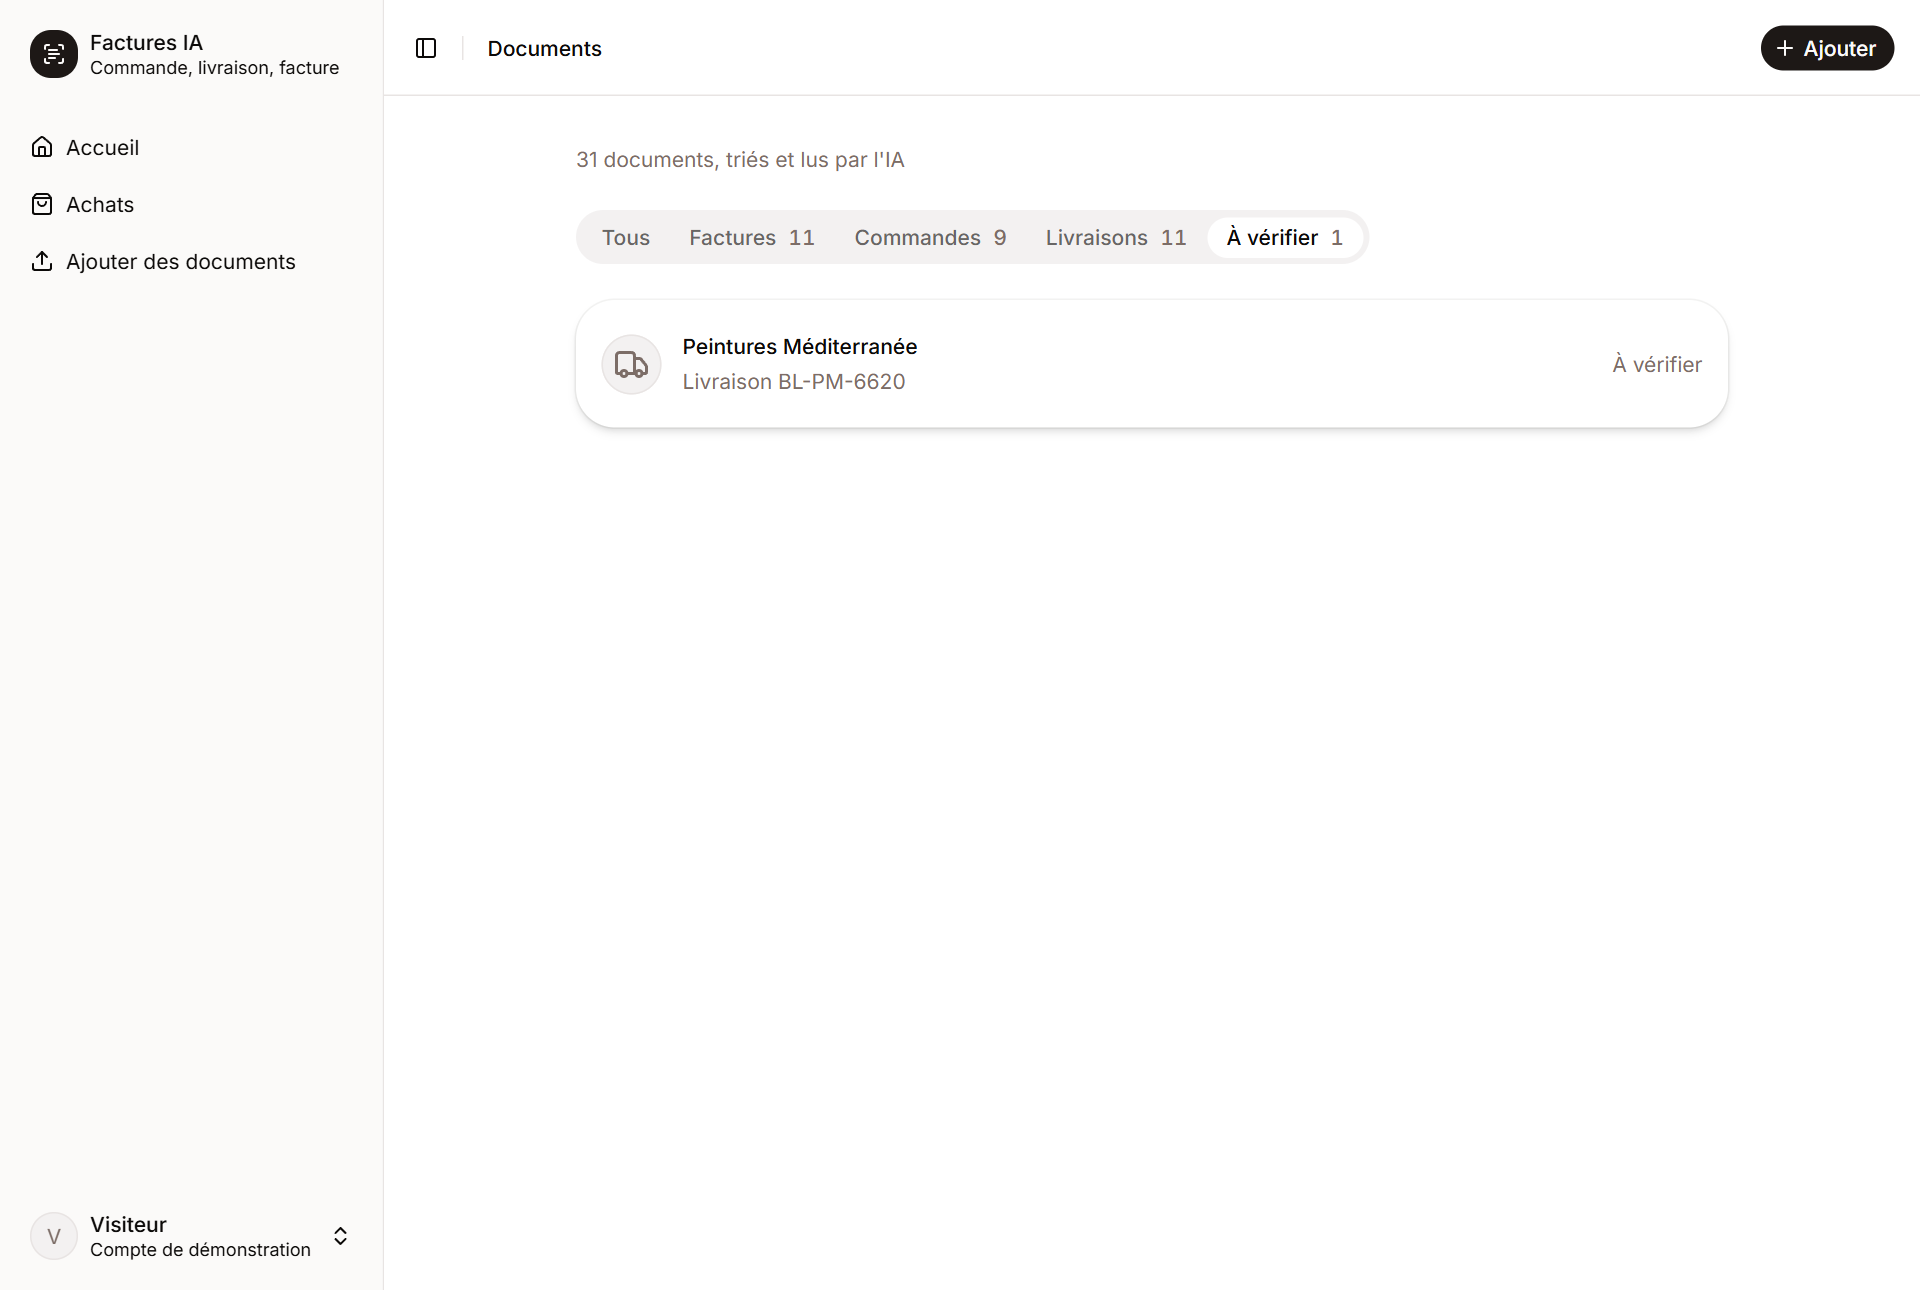
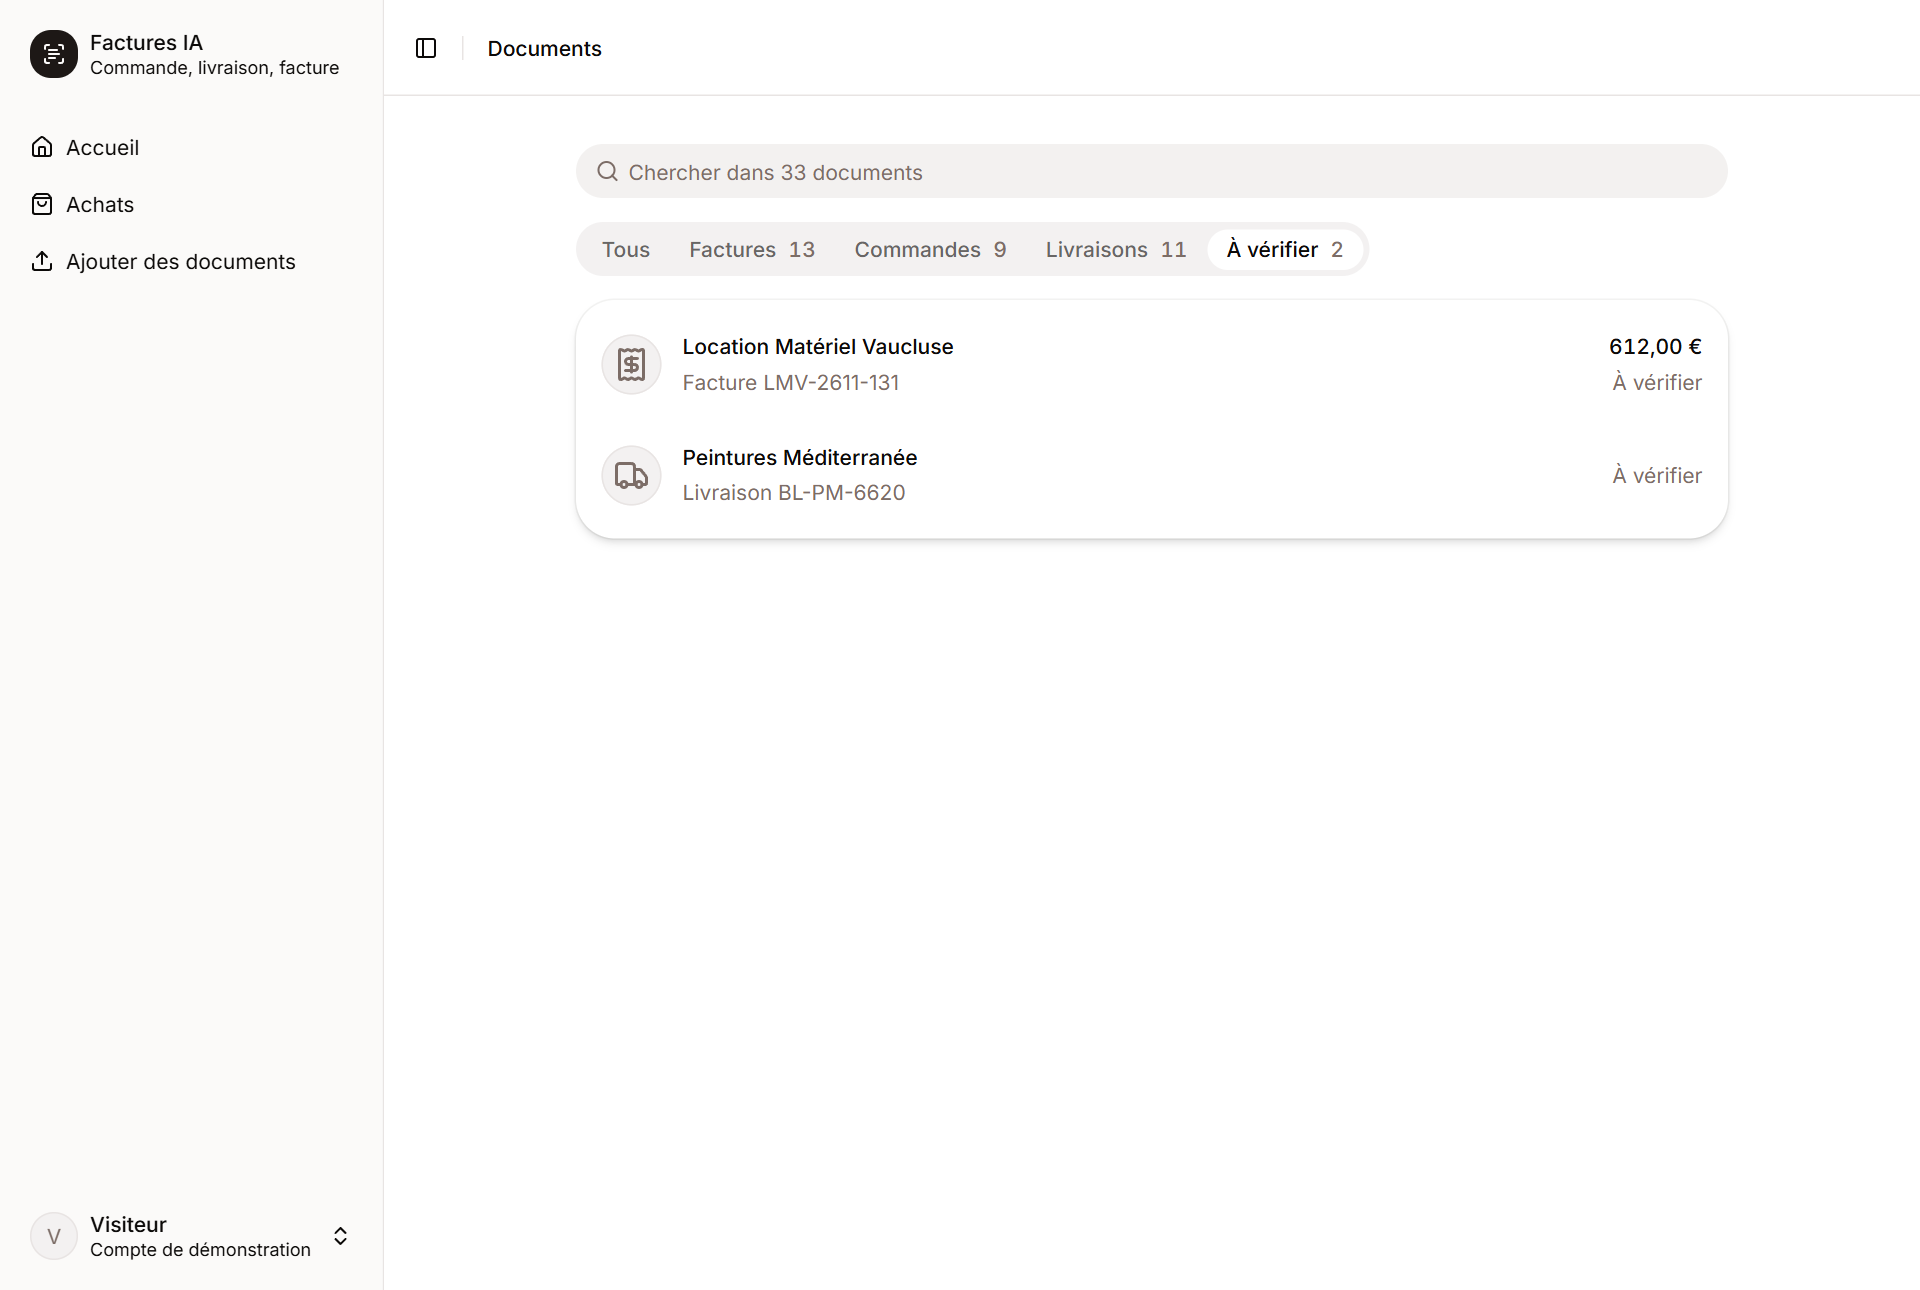
README et captures : IBAN, recherche, écrans compacts

diff --git a/frontend/src/components/Purchases/PurchaseSheet.tsx b/frontend/src/components/Purchases/PurchaseSheet.tsx
@@ -54,6 +54,7 @@ import {
   formatDate,
   formatQuantity,
   groupIban,
+  KIND,
   KIND_LONG,
   PURCHASE_STATUS,
 } from "@/lib/documents"
@@ -379,7 +380,7 @@ function Documents({ documents }: { documents: DocumentRef[] }) {
                   </ItemMedia>
                   <ItemContent className="min-w-0">
                     <ItemTitle className="block w-full truncate font-normal">
-                      {KIND_LONG[document.kind]} {document.number ?? ""}
+                      {KIND[document.kind]} {document.number ?? ""}
                     </ItemTitle>
                   </ItemContent>
                   <ItemActions className="text-sm text-muted-foreground">

diff --git a/README.md b/README.md
@@ -29,7 +29,7 @@ Le cas d'usage visé : une PME du bâtiment ou un grossiste qui reçoit des cent
 
 https://factures-ia.vercel.app
 
-Le bouton **Essayer la démo** ouvre, sans inscription, un compte rempli avec les 31 documents de [`backend/app/demo/purchases`](backend/app/demo/purchases), déjà lus : 11 achats avec chacun un piège. Chaque visiteur a son propre compte de démo, effacé au bout de 24 heures. Les documents y sont chargés tels que Gemini les lit (31 sur 31, mesuré plus bas), puis passent les vrais contrôles et le vrai rapprochement : le verdict affiché sort du même code qu'un vrai dépôt.
+Le bouton **Essayer la démo** ouvre, sans inscription, un compte rempli avec les 33 documents de [`backend/app/demo/purchases`](backend/app/demo/purchases), déjà lus : 13 achats avec chacun un piège. Chaque visiteur a son propre compte de démo, effacé au bout de 24 heures. Les documents y sont chargés tels que Gemini les lit (33 sur 33, mesuré plus bas), puis passent les vrais contrôles et le vrai rapprochement : le verdict affiché sort du même code qu'un vrai dépôt.
 
 Pour voir l'IA lire, créez un compte et déposez ces PDF en vrac, ou prenez un bon de livraison en photo avec votre téléphone : les photos JPEG, PNG et WebP sont réduites dans le navigateur, puis converties en PDF par le serveur. Les factures de [`backend/tests/fixtures/invoices`](backend/tests/fixtures/invoices) passent toutes ; pour voir les contrôles en action, prenez un avoir ou une facture américaine dans les jeux de données cités plus bas.
 
@@ -59,9 +59,9 @@ flowchart LR
 ```
 
 1. Le fichier est contrôlé (signature `%PDF` ou photo, 10 Mo au plus ; une photo devient un PDF d'une page) puis stocké en base, sans type. Le traitement part en arrière-plan et l'interface se met à jour toute seule.
-1. Une **facture électronique** (Factur-X, ZUGFeRD) porte ses chiffres dans un fichier XML joint au PDF. Depuis le 1er septembre 2026, toutes les entreprises françaises doivent pouvoir en recevoir. Ce XML est lu tel quel, en quelques millisecondes, sans OCR ni IA : fournisseur, numéro, dates, échéance, totaux, numéro de commande et lignes sont exacts. Si le XML n'a pas de lignes (profils MINIMUM et BASIC WL), seule la lecture des lignes est confiée à l'IA. Testé sur les 20 exemples officiels Factur-X et ZUGFeRD cités plus bas.
+1. Une **facture électronique** (Factur-X, ZUGFeRD) porte ses chiffres dans un fichier XML joint au PDF. Depuis le 1er septembre 2026, toutes les entreprises françaises doivent pouvoir en recevoir. Ce XML est lu tel quel, en quelques millisecondes, sans OCR ni IA : fournisseur, numéro, dates, échéance, totaux, IBAN, e-mail du fournisseur, numéro de commande et lignes sont exacts. Si le XML n'a pas de lignes (profils MINIMUM et BASIC WL), seule la lecture des lignes est confiée à l'IA. Testé sur les 20 exemples officiels Factur-X et ZUGFeRD cités plus bas.
 2. [Docling](https://github.com/docling-project/docling) extrait le texte et les tableaux des 5 premières pages.
-3. Gemini reçoit le PDF complet et le texte de Docling. Il voit les logos et la mise en page, le texte l'aide à lire les chiffres. En un seul appel, il renvoie le type (facture, avoir, bon de commande, bon de livraison), le fournisseur, le numéro, la date, le numéro de commande de l'acheteur, les totaux, la mention d'exonération de TVA, la date d'échéance et les conditions de paiement recopiées telles quelles (« 45 jours fin de mois »), et chaque ligne d'article (référence, désignation, quantité, prix). La date d'échéance n'est jamais calculée par l'IA : si elle n'est pas imprimée, le code la déduit des conditions ; s'il n'y a rien, l'appli compte les 30 jours du délai légal (code de commerce, art. L441-10) et le dit.
+3. Gemini reçoit le PDF complet et le texte de Docling. Il voit les logos et la mise en page, le texte l'aide à lire les chiffres. En un seul appel, il renvoie le type (facture, avoir, bon de commande, bon de livraison), le fournisseur, le numéro, la date, le numéro de commande de l'acheteur, les totaux, la mention d'exonération de TVA, la date d'échéance et les conditions de paiement recopiées telles quelles (« 45 jours fin de mois »), l'IBAN et l'e-mail du fournisseur, et chaque ligne d'article (référence, désignation, quantité, prix). La date d'échéance n'est jamais calculée par l'IA : si elle n'est pas imprimée, le code la déduit des conditions ; s'il n'y a rien, l'appli compte les 30 jours du délai légal (code de commerce, art. L441-10) et le dit.
 4. Les règles de [`checks.py`](backend/app/services/checks.py) décident du statut, avec des règles propres à chaque type. Elles ne font pas appel à l'IA et sont testées seules.
 5. [`reconciliation.py`](backend/app/services/reconciliation.py) regroupe les documents par numéro de commande et les compare ligne par ligne.
 6. Un document corrigé à la main (type, champs, numéro de commande, lignes) repasse les contrôles, et son achat est recalculé. On peut aussi relancer la lecture par l'IA.
@@ -73,7 +73,7 @@ L'accueil donne en gros le **reste à payer, TTC** (ce qui sort vraiment du comp
 ## Interface
 
 - [shadcn/ui](https://ui.shadcn.com) avec le preset `radix-luma`, couleur de base taupe, sur Tailwind CSS 4. Les composants sont ceux du registre, sans retouche : `Sidebar` pour la navigation sur ordinateur, `Item` pour les listes, `Tabs` pour les filtres, `Card`, `Badge`, `Alert`, `Table`, `Empty`, `Field` et `InputGroup` pour les formulaires, `AlertDialog` pour les suppressions, `Dialog` sur ordinateur et `Drawer` sur téléphone pour les détails.
-- Sur téléphone, une présentation d'appli bancaire : le montant à payer en grand, des boutons ronds (Ajouter, Photo qui ouvre l'appareil photo, Litiges), des listes regroupées dans un seul bloc avec le montant TTC et l'échéance à droite, trois onglets en bas de l'écran (Accueil, Achats, Compte), et les détails qui montent du bas. La liste brute des documents s'ouvre depuis les achats, là où elle sert.
+- Sur téléphone, une présentation d'appli bancaire : le montant à payer en grand, des boutons ronds (Ajouter, Photo qui ouvre l'appareil photo, Litiges), des listes regroupées dans un seul bloc avec le montant TTC et l'échéance à droite, trois onglets en bas de l'écran (Accueil, Achats, Compte), et les détails qui montent du bas. La liste brute des documents s'ouvre depuis les achats, là où elle sert. Les détails tiennent en peu de place : le montant et les boutons en trois lignes, les articles en tableau (une ligne par article, commandé, livré et facturé côte à côte, le chiffre en cause en rouge). Achats et documents ont une recherche ; chercher un fournisseur donne aussi ce qu'on lui doit.
 - Aucun écran qui clignote : chaque page charge ses données avant de s'afficher (préchargées dès que le doigt ou la souris touche le lien), les onglets filtrent dans le navigateur sans recharger, et le thème clair ou sombre est appliqué avant le premier affichage.
 
 ## Vérifications
@@ -153,13 +153,15 @@ Le rapprochement n'est pas stocké : il est recalculé à chaque affichage par u
 
 Dans le détail d'un litige, deux boutons :
 
-- **Écrire** prépare le mail au fournisseur : la facture et la commande concernées, la liste des écarts, le montant facturé en trop, et la demande d'un avoir ou d'une facture corrigée. Le texte est écrit à partir de la comparaison, sans l'IA : chaque chiffre est un chiffre vérifié. On peut le modifier, le copier ou l'ouvrir dans sa messagerie.
+- **Écrire au fournisseur** prépare le mail, adressé à l'e-mail lu sur ses documents : la facture et la commande concernées, la liste des écarts, le montant facturé en trop, et la demande d'un avoir ou d'une facture corrigée. Le texte est écrit à partir de la comparaison, sans l'IA : chaque chiffre est un chiffre vérifié. On peut le modifier, le copier ou l'ouvrir dans sa messagerie.
 - **Réglé** range l'achat dans les achats à payer, une fois l'accord trouvé. Les écarts restent affichés pour mémoire, et **Rouvrir** annule. L'avoir, une fois déposé, est déduit du montant à payer.
 
 Le règlement ne vaut que pour les écarts qu'il y avait à ce moment-là. Si un nouveau document en fait apparaître d'autres, le litige se rouvre tout seul.
 
 ### Payer, et envoyer au comptable
 
+- Un achat à payer montre l'**IBAN** de la facture, avec un bouton **Copier l'IBAN** pour le virement. Une facture en retard de paiement rappelle que le fournisseur peut réclamer 40 € d'indemnité (code de commerce, art. L441-10).
+- **Changement de RIB** : c'est l'arnaque qui vise le plus les PME, un faux fournisseur qui « change de banque ». L'IBAN est vérifié (clé ISO 13616) puis comparé à celui de la facture précédente du même fournisseur. S'il a changé, l'achat est bloqué en attente, avec une alerte rouge en haut et sur l'accueil : appeler le fournisseur à un numéro déjà connu, pas celui de la facture. Le bouton **J'ai appelé, l'IBAN est bon** débloque la facture.
 - **Payé** range l'achat dans les payés, avec la date ; **Pas payé** annule. Le reste à payer de l'accueil baisse d'autant. Pour un avoir seul, le bouton devient **Déduit**.
 - Dans **Compte, Mes données**, **Pour le comptable** télécharge un zip : un tableau des factures et avoirs (date, fournisseur, numéro, HT, TVA, TTC, échéance, date de paiement) qui s'ouvre tel quel dans Excel en français, et les PDF nommés par date, fournisseur et numéro. Tout, ou un mois choisi.
 
@@ -191,18 +193,20 @@ Le projet a aussi été passé sur 42 factures publiques :
 
 (*) La facture AWS porte la phrase « This is not a VAT invoice ». Selon les passages, Gemini la recopie comme mention d'exonération ou non : la facture est alors validée ou signalée.
 
-Pour le rapprochement, [`scripts/generate_purchases.py`](backend/scripts/generate_purchases.py) fabrique 11 achats de grossistes, d'entreprises du bâtiment et d'un opérateur télécom, soit 31 PDF, chacun avec un piège connu : quantité facturée non livrée, prix augmenté, article ajouté, livraison en deux fois, désignations réécrites, bon de livraison sans numéro de commande, facture sans commande, livraison en retard, express commandé mais livré en standard, facture d'abonnement seule. Les factures portent des conditions de paiement variées : « 45 jours », « 30 jours fin de mois », « à réception », une date imprimée, ou rien. [`scripts/evaluate_purchases.py`](backend/scripts/evaluate_purchases.py) les passe dans Docling et Gemini :
+Pour le rapprochement, [`scripts/generate_purchases.py`](backend/scripts/generate_purchases.py) fabrique 13 achats de grossistes, d'entreprises du bâtiment, d'un opérateur télécom et d'un loueur de matériel, soit 33 PDF, chacun avec un piège connu : quantité facturée non livrée, prix augmenté, article ajouté, livraison en deux fois, désignations réécrites, bon de livraison sans numéro de commande, facture sans commande, livraison en retard, express commandé mais livré en standard, facture d'abonnement seule, IBAN changé d'un mois sur l'autre. Les IBAN sont fictifs (code banque 99999, qu'aucune banque n'utilise). Les factures portent des conditions de paiement variées : « 45 jours », « 30 jours fin de mois », « à réception », une date imprimée, ou rien. [`scripts/evaluate_purchases.py`](backend/scripts/evaluate_purchases.py) les passe dans Docling et Gemini :
 
 | | Résultat |
 |---|---|
-| Type de document reconnu | 31 / 31 |
-| Numéro et numéro de commande | 31 / 31 |
-| Lignes lues (nombre, quantités, prix) | 31 / 31 |
+| Type de document reconnu | 33 / 33 |
+| Numéro et numéro de commande | 33 / 33 |
+| Lignes lues (nombre, quantités, prix) | 33 / 33 |
 | Mode et date de livraison (commandes et bons de livraison) | 20 / 20 |
-| Échéance (factures) | 11 / 11 |
-| Verdict de l'achat | 11 / 11 |
+| Échéance, IBAN et e-mail du fournisseur (factures) | 13 / 13 chacun |
+| Verdict de l'achat | 13 / 13 |
 
 Ces PDF sont propres et générés : ce score montre que la chaîne marche de bout en bout, pas qu'elle résiste à un bon de livraison scanné et froissé. C'est le prochain jeu de test à constituer.
+
+Une mesure a aussi servi à corriger la consigne : ajouter des champs l'a rendue instable sur « Livraison dépôt », rangé une fois sur deux en retrait. Préciser que le mot livraison veut dire que le fournisseur apporte a ramené le résultat à 4 sur 4 à chaque passage.
 
 Deux idées ont été essayées puis retirées, parce que les mesures ne les justifiaient pas :
 
@@ -235,11 +239,12 @@ backend/app/
   services/payment_terms.py      échéance tirée des conditions de paiement
   services/supplier_email.py     mail de litige ou de relance, sans IA
   services/export.py             zip pour le comptable (tableau et PDF)
+  services/iban.py               IBAN vérifié, changement de RIB repéré
   services/processing.py         enchaîne lecture, extraction et contrôles
 backend/scripts/
   create_admin.py          crée un administrateur, mot de passe saisi au clavier
   evaluate.py              score sur les 12 factures de test
-  generate_purchases.py    11 achats de démonstration (31 PDF)
+  generate_purchases.py    13 achats de démonstration (33 PDF)
   evaluate_purchases.py    score de lecture et de rapprochement sur ces achats
   vercel-build.sh          build de l'interface, modèles Docling, migrations
 frontend/src/
@@ -251,7 +256,7 @@ frontend/src/
   components/UserSettings/            compte, export pour le comptable
 ```
 
-Docling et Gemini sont derrière deux interfaces (`PdfReader`, `DocumentExtractor`). Les 253 tests les remplacent par de fausses versions et tournent sans clé API ni réseau. Changer de modèle demande une seule classe.
+Docling et Gemini sont derrière deux interfaces (`PdfReader`, `DocumentExtractor`). Les 261 tests les remplacent par de fausses versions et tournent sans clé API ni réseau. Changer de modèle demande une seule classe.
 
 Stack : FastAPI, SQLModel, Pydantic, Alembic, PostgreSQL, Docling, Gemini (`google-genai`), RapidFuzz, React 19, Vite, TanStack Router et Query, Tailwind, shadcn/ui, Pytest, uv, bun. Tests et lint dans GitHub Actions, déploiement continu sur Vercel.
 
